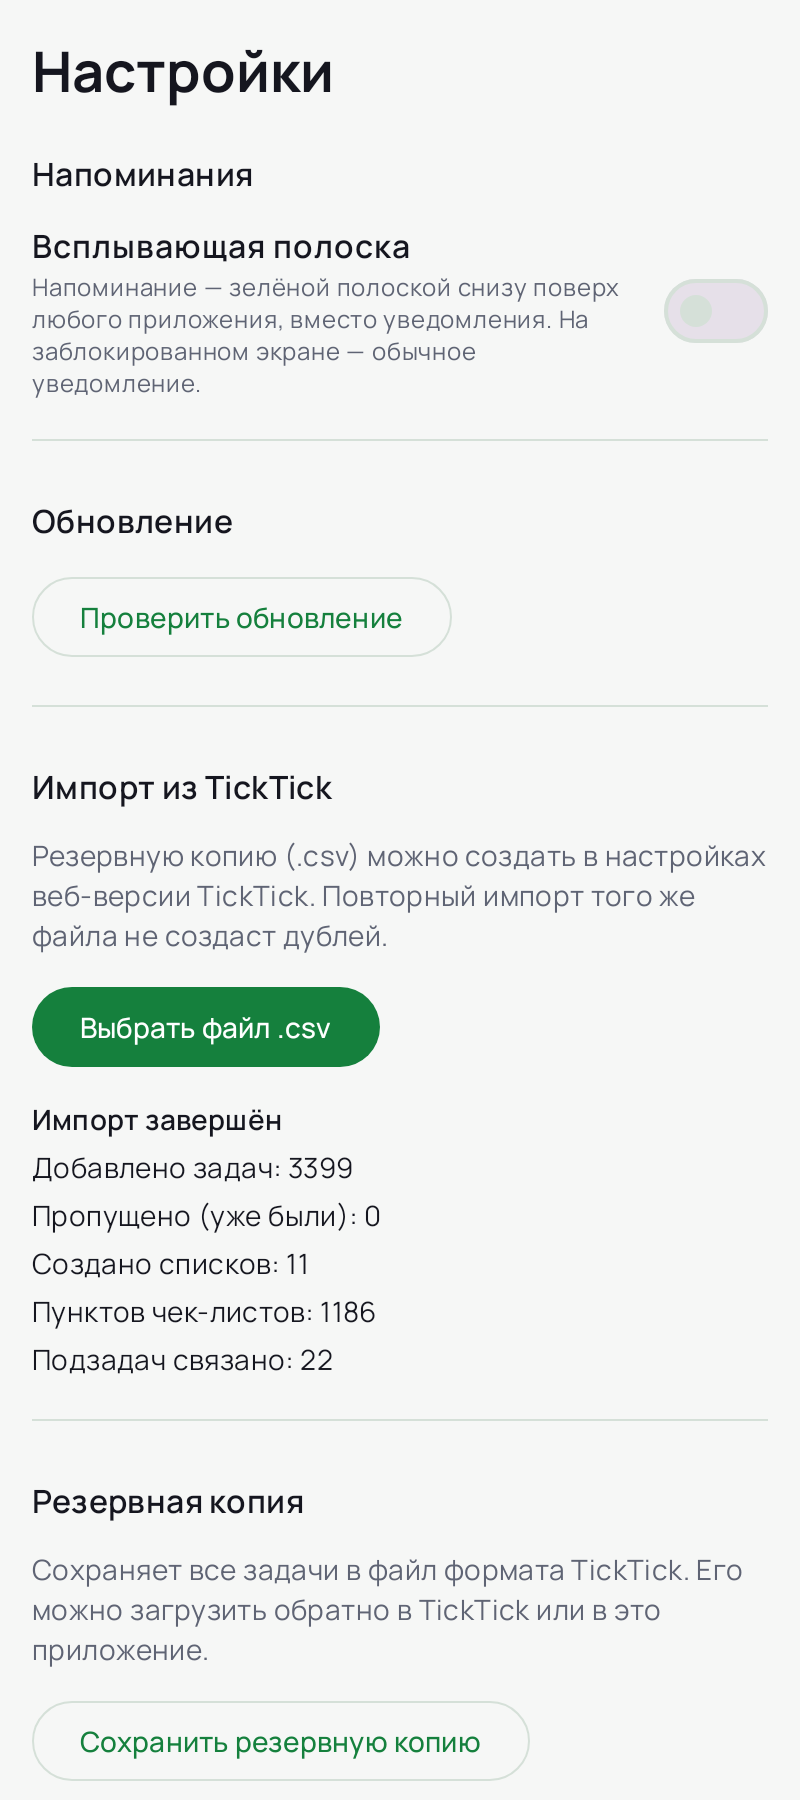
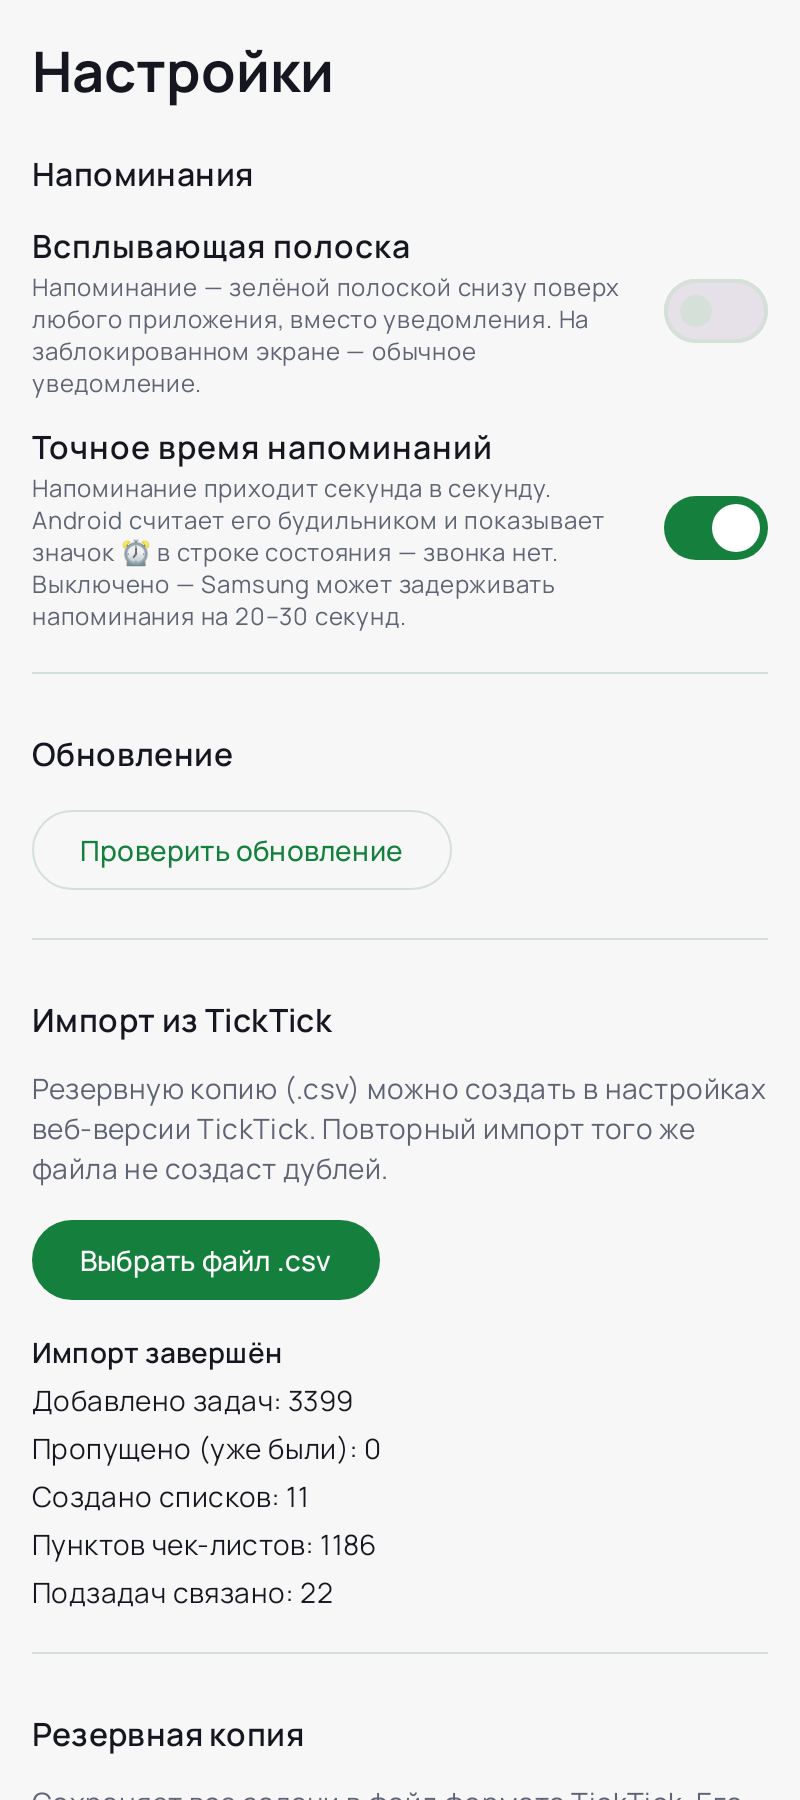
Доработка 0.29.2: точное время напоминаний, смахнуть полоску вправо
- Переключатель «Точное время напоминаний» (по умолчанию включён): напоминание как будильник, без задержки Samsung
- Полоску закрывает смахивание вправо вместо вниз
- «Отменить» на полоске — 1,5 секунды вместо 3

Claude-Session: https://claude.ai/code/session_015FwwajEv4Pe9GNk24oanC3

diff --git a/app/src/main/java/com/prostovasei/simpletasks/notifications/ReminderPopup.kt b/app/src/main/java/com/prostovasei/simpletasks/notifications/ReminderPopup.kt
@@ -19,7 +19,7 @@ import androidx.compose.animation.core.LinearOutSlowInEasing
 import androidx.compose.animation.core.tween
 import androidx.compose.foundation.background
 import androidx.compose.foundation.clickable
-import androidx.compose.foundation.gestures.detectVerticalDragGestures
+import androidx.compose.foundation.gestures.detectHorizontalDragGestures
 import androidx.compose.foundation.layout.Arrangement
 import androidx.compose.foundation.layout.Box
 import androidx.compose.foundation.layout.Column
@@ -102,7 +102,7 @@ import kotlin.math.roundToInt
 
 /*
  * Полоска напоминания поверх других приложений (T-69, вариант PM «В»): зелёная, снизу, висит, пока не уберут.
- * Часы — на завтра в то же время, галочка — выполнено, название — окно задачи поверх, смахнуть вниз — закрыть.
+ * Часы — на завтра в то же время, галочка — выполнено, название — окно задачи поверх, смахнуть вправо — закрыть.
  * Несколько сразу — до трёх полосок друг над другом, остальные — «ещё N». Вместо обычного уведомления:
  * оно приходит, только если полоску показать нельзя (выключено, нет разрешения, экран заблокирован).
  */
@@ -378,16 +378,28 @@ private fun Strip(strip: PopupStrip, onDone: (String) -> Unit, onTomorrow: (Stri
             .fillMaxWidth()
             .height(SizeTokens.POPUP_STRIP.dp)
             // Жест — до сдвига: координаты пальца считаются от неподвижного места, а не от уезжающей полоски.
+            // Закрыть — смахнуть вправо (0.29.2, решение PM: вниз неудобно); дальше порога — улетает за край экрана.
             .pointerInput(strip.taskId) {
-                detectVerticalDragGestures(
-                    onDragEnd = { if (offset.value > threshold) onDismiss(strip.taskId) else scope.launch { offset.animateTo(0f) } },
+                detectHorizontalDragGestures(
+                    onDragEnd = {
+                        scope.launch {
+                            if (offset.value > threshold) {
+                                leaving = true
+                                offset.animateTo(size.width.toFloat(), tween(SWIPE_OUT_MS, easing = FastOutLinearInEasing))
+                                onDismiss(strip.taskId)
+                            } else {
+                                offset.animateTo(0f)
+                            }
+                        }
+                    },
                     onDragCancel = { scope.launch { offset.animateTo(0f) } },
-                ) { change, dy ->
+                ) { change, dx ->
                     change.consume()
-                    if (!leaving) scope.launch { offset.snapTo((offset.value + dy).coerceAtLeast(0f)) }
+                    if (!leaving) scope.launch { offset.snapTo((offset.value + dx).coerceAtLeast(0f)) }
                 }
             }
-            .offset { IntOffset(0, offset.value.roundToInt()) }
+            .offset { IntOffset(offset.value.roundToInt(), 0) }
+            .graphicsLayer { alpha = 1f - (offset.value / size.width).coerceIn(0f, 1f) * SWIPE_FADE }
             .graphicsLayer {
                 translationY = ((1f - enter.value) * ENTER_DEPTH + drop.value * DROP_DEPTH) * size.height
                 rotationX = if (flip.value < HALF) flip.value / HALF * QUARTER_TURN else (flip.value / HALF - 2f) * QUARTER_TURN
@@ -450,7 +462,7 @@ private fun Strip(strip: PopupStrip, onDone: (String) -> Unit, onTomorrow: (Stri
 }
 
 /**
- * «Выполнено · Отменить» (0.29, П1): 3 секунды на случай промаха пальцем. Тонкая линия внизу показывает, сколько
+ * «Выполнено · Отменить» (0.29, П1): полторы секунды на случай промаха пальцем. Тонкая линия внизу показывает, сколько
  * осталось, потом полоска уезжает вниз и закрывается.
  */
 @Composable
@@ -527,7 +539,10 @@ private fun animationsEnabled(context: Context): Boolean =
 
 private const val ENTER_MS = 360
 private const val UNDO_APPEAR_MS = 200
-private const val UNDO_MS = 3000
+/** Сколько висит «Отменить» (0.29.2: было 3 с — долго, решение PM). */
+private const val UNDO_MS = 1500
+private const val SWIPE_OUT_MS = 180
+private const val SWIPE_FADE = 0.7f
 private const val UNDO_LINE_ALPHA = 0.6f
 private const val PULSE_MS = 1100
 private const val PULSES = 2f

diff --git a/app/src/main/java/com/prostovasei/simpletasks/ui/feature/settings/SettingsScreen.kt b/app/src/main/java/com/prostovasei/simpletasks/ui/feature/settings/SettingsScreen.kt
@@ -49,6 +49,7 @@ import androidx.hilt.lifecycle.viewmodel.compose.hiltViewModel
 import androidx.lifecycle.compose.collectAsStateWithLifecycle
 import com.prostovasei.simpletasks.BuildConfig
 import com.prostovasei.simpletasks.R
+import com.prostovasei.simpletasks.notifications.ExactPrefs
 import com.prostovasei.simpletasks.notifications.PopupPrefs
 import com.prostovasei.simpletasks.widget.WidgetLog
 import com.prostovasei.simpletasks.designsystem.theme.AppTheme
@@ -74,6 +75,7 @@ fun SettingsRoute(viewModel: SettingsViewModel = hiltViewModel()) {
     // Полоска напоминания (T-69): переключатель и разрешение «поверх других приложений» — тоже при каждом возвращении.
     var popupOn by remember { mutableStateOf(PopupPrefs.enabled(context)) }
     var popupAllowed by remember { mutableStateOf(PopupPrefs.allowed(context)) }
+    var exactOn by remember { mutableStateOf(ExactPrefs.enabled(context)) }
     LifecycleResumeEffect(Unit) {
         notificationsOff = !NotificationManagerCompat.from(context).areNotificationsEnabled()
         popupAllowed = PopupPrefs.allowed(context)
@@ -100,6 +102,13 @@ fun SettingsRoute(viewModel: SettingsViewModel = hiltViewModel()) {
             },
             onAllow = { context.startActivity(PopupPrefs.permissionIntent(context)) },
         ),
+        exact = ExactSettings(
+            enabled = exactOn,
+            onToggle = { on ->
+                ExactPrefs.setEnabled(context, on)
+                exactOn = on
+            },
+        ),
         widgetLog = WidgetLogActions(
             read = { WidgetLog.read(context) },
             share = { text ->
@@ -121,6 +130,7 @@ fun SettingsScreen(
     notificationsOff: Boolean = false,
     onEnableNotifications: () -> Unit = {},
     popup: PopupSettings = PopupSettings(),
+    exact: ExactSettings = ExactSettings(),
     widgetLog: WidgetLogActions = WidgetLogActions.None,
 ) {
     var logText by remember { mutableStateOf<String?>(null) }
@@ -166,6 +176,7 @@ fun SettingsScreen(
                 }
             }
             PopupSection(popup)
+            ExactSection(exact)
             HorizontalDivider(color = colors.divider, modifier = Modifier.padding(vertical = spacing.xs))
 
             UpdateSection(state.update, onIntent)
@@ -418,6 +429,21 @@ data class PopupSettings(
     val onAllow: () -> Unit = {},
 )
 
+/** «Точное время напоминаний» (0.29.2): напоминание как будильник — без задержки Samsung, со значком в строке состояния. */
+data class ExactSettings(val enabled: Boolean = true, val onToggle: (Boolean) -> Unit = {})
+
+@Composable
+private fun ExactSection(exact: ExactSettings) {
+    val colors = AppTheme.colors
+    Row(verticalAlignment = Alignment.CenterVertically, horizontalArrangement = Arrangement.spacedBy(AppTheme.spacing.sm)) {
+        Column(Modifier.weight(1f)) {
+            Text(stringResource(R.string.settings_exact_title), style = MaterialTheme.typography.bodyLarge, fontWeight = FontWeight.SemiBold, color = colors.textPrimary)
+            Text(stringResource(R.string.settings_exact_hint), style = MaterialTheme.typography.bodySmall, color = colors.textSecondary)
+        }
+        Switch(checked = exact.enabled, onCheckedChange = exact.onToggle, modifier = Modifier.testTag(TAG_EXACT_SWITCH))
+    }
+}
+
 @Composable
 private fun PopupSection(popup: PopupSettings) {
     val colors = AppTheme.colors
@@ -475,6 +501,7 @@ const val TAG_EXPORT_BUTTON = "settings_export"
 const val TAG_CLEAR_BUTTON = "settings_clear"
 const val TAG_NOTIFICATIONS_BUTTON = "settings_notifications"
 const val TAG_POPUP_SWITCH = "settings_popup"
+const val TAG_EXACT_SWITCH = "settings_exact"
 const val TAG_POPUP_ALLOW = "settings_popup_allow"
 
 internal val previewReport = ImportReport(

diff --git a/app/src/main/java/com/prostovasei/simpletasks/notifications/AndroidReminders.kt b/app/src/main/java/com/prostovasei/simpletasks/notifications/AndroidReminders.kt
@@ -28,7 +28,25 @@ import java.time.Instant
 import javax.inject.Inject
 import javax.inject.Singleton
 
-/** Будильник через AlarmManager: точный, срабатывает и в режиме сна. */
+/**
+ * «Точное время напоминаний» в настройках (0.29.2, вариант PM «В»; по умолчанию включено). Включено — напоминание
+ * ставится как будильник (`setAlarmClock`): система его не откладывает, но показывает значок будильника в строке
+ * состояния (звонка нет). Выключено — обычный точный будильник, который Samsung откладывает на 20–30 секунд.
+ */
+object ExactPrefs {
+    private const val PREFS = "reminders"
+    private const val KEY = "exact_alarm_clock"
+
+    fun enabled(context: Context): Boolean = context.getSharedPreferences(PREFS, Context.MODE_PRIVATE).getBoolean(KEY, true)
+
+    /** Сохраняет выбор и сразу переставляет ближайший будильник по-новому. */
+    fun setEnabled(context: Context, value: Boolean) {
+        context.getSharedPreferences(PREFS, Context.MODE_PRIVATE).edit { putBoolean(KEY, value) }
+        context.sendBroadcast(Intent(context, ReminderReceiver::class.java).setAction(ReminderReceiver.ACTION_FIRE))
+    }
+}
+
+/** Будильник через AlarmManager: точный, срабатывает и в режиме сна; как будильник — если включено [ExactPrefs]. */
 @Singleton
 class AndroidReminderAlarm @Inject constructor(@param:ApplicationContext private val context: Context) : ReminderAlarm {
     private val alarms = context.getSystemService(AlarmManager::class.java)
@@ -45,7 +63,11 @@ class AndroidReminderAlarm @Inject constructor(@param:ApplicationContext private
             return
         }
         val exact = Build.VERSION.SDK_INT < Build.VERSION_CODES.S || alarms.canScheduleExactAlarms()
-        if (exact) {
+        if (exact && ExactPrefs.enabled(context)) {
+            // Нажатие на «Следующий будильник» в шторке открывает приложение.
+            val show = PendingIntent.getActivity(context, 0, Intent(context, MainActivity::class.java), PendingIntent.FLAG_IMMUTABLE)
+            alarms.setAlarmClock(AlarmManager.AlarmClockInfo(at.toEpochMilli(), show), intent)
+        } else if (exact) {
             alarms.setExactAndAllowWhileIdle(AlarmManager.RTC_WAKEUP, at.toEpochMilli(), intent)
         } else {
             alarms.setAndAllowWhileIdle(AlarmManager.RTC_WAKEUP, at.toEpochMilli(), intent)

diff --git a/app/src/test/java/com/prostovasei/simpletasks/notifications/AndroidReminderAlarmTest.kt b/app/src/test/java/com/prostovasei/simpletasks/notifications/AndroidReminderAlarmTest.kt
@@ -1,0 +1,46 @@
+package com.prostovasei.simpletasks.notifications
+
+import android.app.AlarmManager
+import androidx.test.core.app.ApplicationProvider
+import org.junit.Assert.assertEquals
+import org.junit.Assert.assertNotNull
+import org.junit.Assert.assertNull
+import org.junit.Test
+import org.junit.runner.RunWith
+import org.robolectric.RobolectricTestRunner
+import org.robolectric.Shadows.shadowOf
+import org.robolectric.shadows.ShadowAlarmManager
+import java.time.Instant
+
+/** «Точное время напоминаний» (0.29.2): включено — как будильник (система не откладывает), выключено — обычный точный. */
+@RunWith(RobolectricTestRunner::class)
+class AndroidReminderAlarmTest {
+    private val context = ApplicationProvider.getApplicationContext<android.content.Context>()
+    private val alarms = shadowOf(context.getSystemService(AlarmManager::class.java))
+
+    @Test
+    fun setsAlarmClockAndCancels() {
+        ShadowAlarmManager.setCanScheduleExactAlarms(true)
+        val at = Instant.parse("2026-10-26T15:00:00Z")
+        AndroidReminderAlarm(context).setAt(at)
+
+        val alarm = alarms.peekNextScheduledAlarm()
+        assertNotNull(alarm)
+        assertEquals(at.toEpochMilli(), alarm!!.alarmClockInfo!!.triggerTime)
+
+        AndroidReminderAlarm(context).setAt(null)
+        assertNull(alarms.peekNextScheduledAlarm())
+    }
+
+    @Test
+    fun exactOffSetsPlainExactAlarm() {
+        ShadowAlarmManager.setCanScheduleExactAlarms(true)
+        context.getSharedPreferences("reminders", android.content.Context.MODE_PRIVATE).edit().putBoolean("exact_alarm_clock", false).commit()
+        val at = Instant.parse("2026-10-26T15:00:00Z")
+        AndroidReminderAlarm(context).setAt(at)
+
+        val alarm = alarms.peekNextScheduledAlarm()
+        assertEquals(at.toEpochMilli(), alarm!!.triggerAtTime)
+        assertNull(alarm.alarmClockInfo)
+    }
+}

diff --git a/app/src/test/java/com/prostovasei/simpletasks/notifications/ReminderStripsTest.kt b/app/src/test/java/com/prostovasei/simpletasks/notifications/ReminderStripsTest.kt
@@ -11,7 +11,7 @@ import androidx.compose.ui.test.onNodeWithText
 import androidx.compose.ui.test.onRoot
 import androidx.compose.ui.test.performClick
 import androidx.compose.ui.test.performTouchInput
-import androidx.compose.ui.test.swipeDown
+import androidx.compose.ui.test.swipeRight
 import com.github.takahirom.roborazzi.captureRoboImage
 import com.prostovasei.simpletasks.designsystem.theme.AppTheme
 import org.junit.Assert.assertEquals
@@ -22,7 +22,7 @@ import org.robolectric.RobolectricTestRunner
 import org.robolectric.annotation.Config
 import org.robolectric.annotation.GraphicsMode
 
-/** Полоска напоминания (T-69): стопка до трёх, «ещё N», кнопки, смахивание вниз и анимации (0.28.1). */
+/** Полоска напоминания (T-69): стопка до трёх, «ещё N», кнопки, смахивание вправо (0.29.2) и анимации (0.28.1). */
 @RunWith(RobolectricTestRunner::class)
 @GraphicsMode(GraphicsMode.Mode.NATIVE)
 @Config(qualifiers = "w400dp-h400dp-xhdpi")
@@ -68,7 +68,7 @@ class ReminderStripsTest {
         composeRule.onNodeWithTag("$TAG_POPUP_DONE:a").performClick()
         composeRule.onNodeWithTag("$TAG_POPUP_TOMORROW:b").performClick()
         composeRule.onNodeWithTag("$TAG_POPUP_OPEN:c").performClick()
-        composeRule.onNodeWithTag("$TAG_POPUP:c").performTouchInput { swipeDown(startY = top, endY = bottom + height * 2) }
+        composeRule.onNodeWithTag("$TAG_POPUP:c").performTouchInput { swipeRight(startX = left, endX = right) }
         composeRule.waitForIdle()
         assertEquals(listOf("done:a", "tomorrow:b", "open:c", "dismiss:c"), events)
     }

diff --git a/app/src/main/java/com/prostovasei/simpletasks/designsystem/tokens/DimensionTokens.kt b/app/src/main/java/com/prostovasei/simpletasks/designsystem/tokens/DimensionTokens.kt
@@ -148,7 +148,7 @@ object SizeTokens {
 
     /**
      * Полоска напоминания поверх других приложений (T-69, вариант PM «В»): высота, круглые кнопки и значки в них,
-     * поля от краёв экрана и между полосками стопки, на сколько смахнуть вниз, чтобы закрыть.
+     * поля от краёв экрана и между полосками стопки, на сколько смахнуть вправо, чтобы закрыть.
      */
     const val POPUP_STRIP = 68
     const val POPUP_BUTTON = 48

diff --git a/docs/HANDOFF.md b/docs/HANDOFF.md
@@ -5,7 +5,8 @@
 
 ## 1. Где мы
 
-- Последний релиз — **0.29.1** (быстрее окно, сильнее «желе»), до неё **0.29.0**: окно задачи растёт из плашки виджета, содержимое из размытия, кнопки «желе»,
+- Последний релиз — **0.29.2** (переключатель «Точное время напоминаний», смахнуть полоску вправо, «Отменить» 1,5 с),
+  до неё 0.29.1 (быстрее окно, сильнее «желе») и **0.29.0**: окно задачи растёт из плашки виджета, содержимое из размытия, кнопки «желе»,
   «Отменить» на полоске (Р1, С5, Н5, T-72, §4.32). До неё — 0.28.1 анимации полоски (T-70) и 0.28.0 полоска (T-69).
 - PM пользуется в основном виджетом и уведомлениями — улучшения делать там (решение PM). Вибрация — нигде.
 - Рабочая ветка `ccr-e96cb7da-dfol69` пересоздаётся от свежего `main` после каждого мержа.
